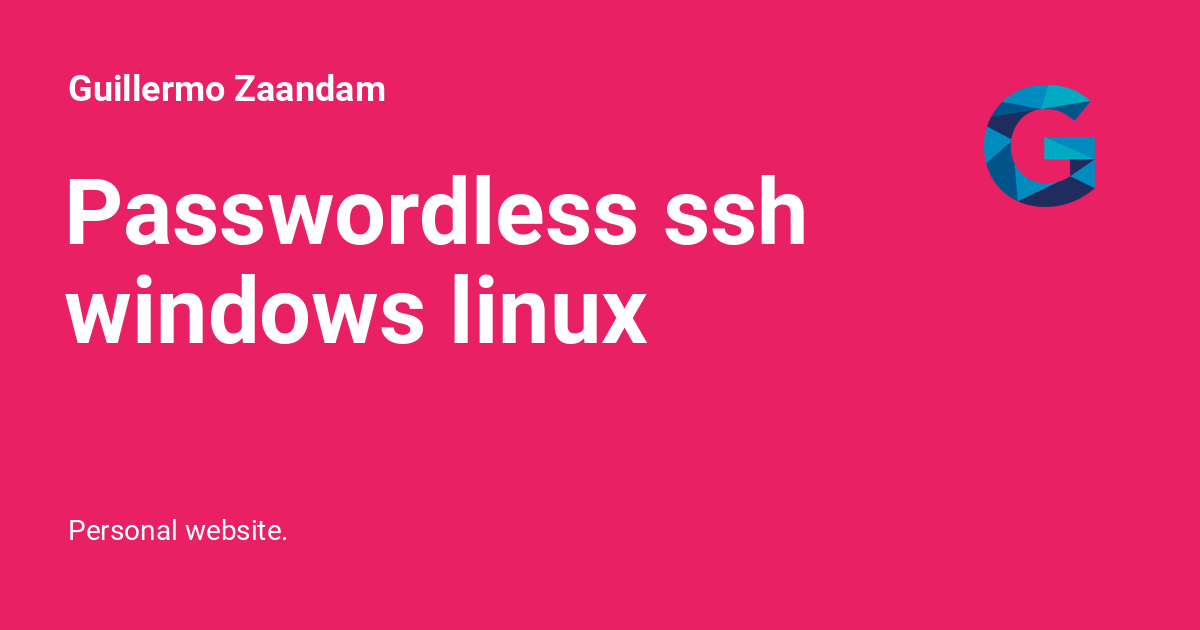
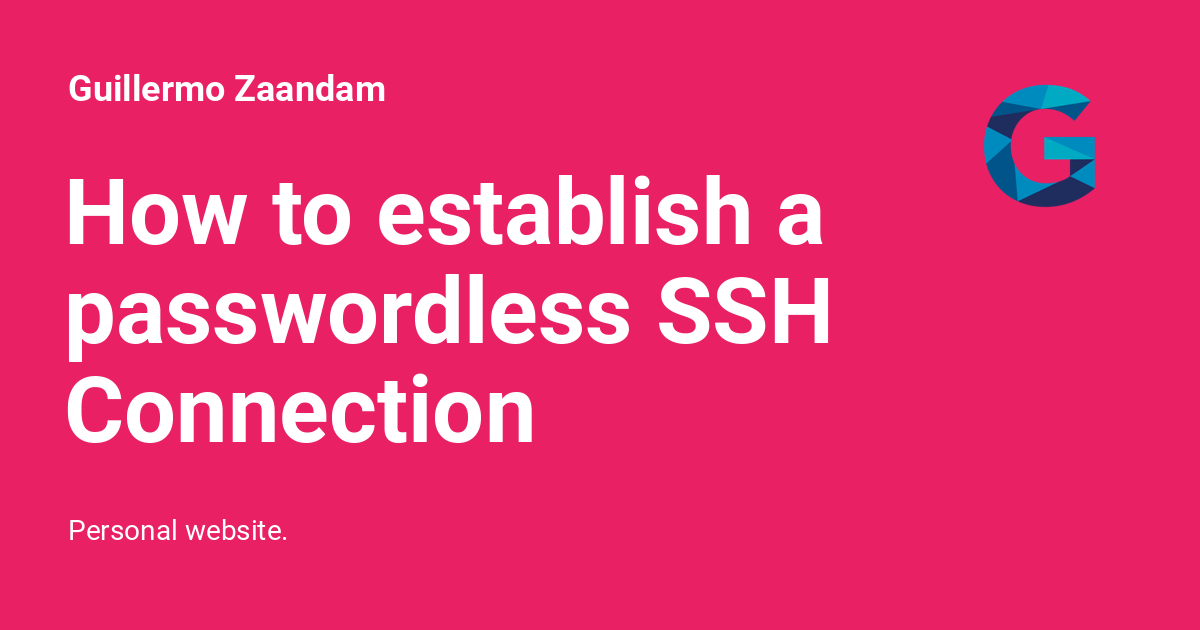
Deployed cc34bfc with MkDocs version: 1.4.2

Changed region(s): [[0.0308, 0.4222, 0.7092, 0.7238], [0.0617, 0.2714, 0.7092, 0.3921]]

diff --git a/search/search_index.js b/search/search_index.js
@@ -1,1 +1,1 @@
-var __index = {"config":{"lang":["en"],"separator":"[\\s\\-]+","pipeline":["stopWordFilter"]},"docs":[{"location":"index.html","title":"Home","text":""},{"location":"index.html#ea-traxx","title":"EA TRAXX","text":"<p>{{ blog_content }}</p>"},{"location":"blog/save-changes-after-reload.html","title":"Save CSS changes after page reload (Chrome)","text":"<p>Save your CCS changes with \"show override\" included in the Chrome DevTools.</p> <p>Open Chrome DevTools</p> <p></p> <p>Press Control+Shift+P or Command+Shift+P (Mac) to show Chrome\u2019s dev tools command menu.</p> <p></p> <p>Type \u201cshow overrides\u201d, press \"Select folder for overrides\" and allow acces to that particular folder.</p> <p></p> <p>Make some changes, reload the page and changes made earlier are still saved. click the back arrow to revert all changes.(2)</p> <p></p> <p>Changes that are made could be found in \"Sources\" tab. File could be saved locally  to your disk.</p> <p></p>"},{"location":"blog/starting-my-blog.html","title":"Starting my own blog.","text":"<p>I had to figure out how to express myself properly. Facebook, Instagram and Twitter weren't a good option due personal reasons and more.</p> <p>Facebook is too personal, Instagram is obviously for sharing photos and stories but, the worst part for me about Instagram is the part where most people are based on one personality or subject. Which is difficult for me, because there\u2019s much more than that.</p> <p>With my own blog, I have the freedom to blog about everything I want, sports, technology, cars and more. I\u2019m less dependent on Meta or Twitter.</p> <p>Starting my own blog with static pages is new to me, I heard of it before, but I had no clue how it would pan out. Yes, this blog is made with a static site generator called: Jekyll. Written in Ruby and can be used with Markdown, Liquid template engine and HTML and CSS.</p> <p>Diving right into Jekyll themes was clumsy, since I didn\u2019t know about Jekyll in general to make the most out of it. But right now, it works and is good enough to write blog posts.</p> <p>I selected the mediumish-theme-jekyll from Sal @ wowthemes.net</p> <p>Couple of fixes had to be made and things had to be figured out before I could properly launch my static page locally on my computer.</p> <p>The some what paltry instructions of any ${insert manual] is unpleasant for real beginners who want to have a nice theme. Starting with the mediumish theme:</p> <ul> <li>I had to install the bundle gems</li> <li>set bundle config to local path</li> <li>update the bundle (since it had a couple of errors.</li> <li>Changing the config file, because it didn\u2019t include the <code>vendor</code> string to exclude it from the building process.</li> </ul> <p>All the above has been solved and I made a pull request and made some changes to the file config.yml file and updated the README.md. (I think this is my second pull request?)</p> <p>Things are working \u201cproperly\u201d right now and it\u2019s time to start posting.</p>"},{"location":"blog/under-the-hood-changes.html","title":"Under the hood changes","text":"<p>Under the hood changes</p> <p>Website is going to get changed (again) for efficiency and for better clarification. The thumbnails of the posts are falling behind in terms of efficiency and clarification; I can\u2019t use .webp or .webm containers, since it doesn\u2019t work and the site is based on modified mediumish theme, with not everything available and had to be adjusted by me. You can read more about  .webp and .webm over here: WebP Compression Study  |  Google Developers What is WebP? Pros and cons of this next-gen image format - 99designs</p> <p>With the new changes I\u2019m able to support additional video players, like, Vimeo, YouTube, Twitch, Facebook video player and more. Loading the next page is going to be quicker. And more and better support for a variety of plugins and due changes in the hosting department.</p> <p>Sincerely,</p> <p>Guillermo</p>"},{"location":"blog/using-ntfs-bitlocker.html","title":"Using NTFS Bitlocker external SSD on Fedora","text":"<p>So I figured out that, <code>yarn</code> may be better than <code>npm</code> when installing packages.</p>"},{"location":"blog/using-ntfs-bitlocker.html#intro","title":"Intro","text":"<p>So I figured out that, <code>yarn</code> may be better than <code>npm</code> when installing packages. Reason why I use <code>yarn</code> instead of <code>npm</code> can be found here: Yarn: A new package manager for JavaScript</p> <p>Along side these tools, I use Node Version Manager:</p> <p>nvm is a version manager for node.js, designed to be installed per-user, and invoked per-shell. nvm works on any POSIX-compliant shell (sh, dash, ksh, zsh, bash), in particular on these platforms: unix, macOS, and windows WSL. ~ https://github.com/nvm-sh/nvm</p> <p>The reason why I use NVM:</p> <ul> <li>Use other version of <code>npm</code>.</li> <li>Using <code>yarn</code> without installing it with elevated rights</li> </ul>"},{"location":"blog/using-ntfs-bitlocker.html#using-yarn","title":"Using yarn","text":"<p>Since I couldn't use <code>yarn</code> on my system without(Fedora) using elevated rights. see error:</p> <pre><code>[guillermo@uhuh~]$ npm install --global yarn\nnpm ERR! code EACCES\nnpm ERR! syscall rename\nnpm ERR! path /usr/local/lib/node_modules/yarn\nnpm ERR! dest /usr/local/lib/node_modules/.yarn-Jrexx8nI\nnpm ERR! errno -13\nnpm ERR! Error: EACCES: permission denied, rename '/usr/local/lib/node_modules/yarn' -&gt; '/usr/local/lib/node_modules/.yarn-Jrexx8nI'\n</code></pre> <p>I had to find a solution for this problem and my resolution was to use <code>nvm</code> which obviously using a good reason to use, even without <code>yarn</code>. My source for the solution can be found here: Resolving EACCES permissions errors when installing packages globally</p>"},{"location":"blog/using-ntfs-bitlocker.html#installing-nvm-and-yarn","title":"Installing nvm and yarn","text":"<p>So Installed this script: (I don't like using scripts to install binaries, because that's the job of the package manager.)</p> <ol> <li>https://github.com/nvm-sh/nvm#install--update-script</li> <li>nvm install --lts (for installing the latest nodejs LTS version)</li> <li>npm install --global yarn</li> </ol> <p>For lazy people copy this:</p> <p><code>bash wget -qO- https://raw.githubusercontent.com/nvm-sh/nvm/v0.39.1/install.sh | bash nvm install --lts npm install --global yarn</code></p> <p>and use <code>yarn create react-app my-app</code> to use yarn as packagemanger. (Mind the space in <code>yarn create</code> part, it isn't a spelling mistake.)</p>"},{"location":"blog/using-ntfs-bitlocker.html#using-yarn-eg-create-react-app-my-app","title":"Using yarn e.g. create react-app my-app","text":"<p>Accoridng to Create a New React App</p> <p>You will need to use the command <code>npx create-react-app my-app</code> which is going to <code>npm</code> instead of <code>yarn</code> to install your packages. Which we don't want. The reason why <code>npx</code> defaults to <code>npm</code> is explained on GitHub by iansu:</p> <p>\"We've actually made some changes to this since the initial PR. Our goal is to make running create-react-app deterministic. With the old behaviour two people running npx create-react-app my-app could end up with different installs if one of them happened to have Yarn installed.</p> <p>The new behaviour in this PR looks at how create-react-app was invoked and uses the corresponding package manager. npx create-react-app my-app will use npm and yarn dlx create-react-app my-app (or yarn create react-app my-app) will use Yarn. This will also potentially allow us to add support for other package managers by following the same pattern.\"</p> <p>Source: https://github.com/facebook/create-react-app/pull/11322</p> <p>To use <code>yarn</code>, you will need to use the command <code>yarn create react-app my-app</code> (Mind the space in <code>yarn create</code> part, it isn't a spelling mistake.) Using <code>create-react-app my-app</code> will also use <code>npm</code> as package manager.</p>"}]}
+var __index = {"config":{"lang":["en"],"separator":"[\\s\\-]+","pipeline":["stopWordFilter"]},"docs":[{"location":"index.html","title":"Home","text":""},{"location":"index.html#ea-traxx","title":"EA TRAXX","text":"<p>{{ blog_content }}</p>"},{"location":"blog/passwordless_ssh_windows_linux.html","title":"How to establish a passwordless SSH Connection between Windows and Linux","text":"<p>Create a key (ed25519)</p> <p>Open your favourite terminal emulator like Windows Terminal </p> <ol> <li>Use powershell: <code>ssh-keygen -t ed25519</code></li> <li>Choose a save location with password or without your choice.</li> <li>Change your current directory to your SSH folder <code>cd .\\.ssh\\</code></li> <li>Copy your public key to your Linux server <code>scp .\\id_ed25519.pub $name@192.168.1.173:~/</code></li> </ol>"},{"location":"blog/save-changes-after-reload.html","title":"Save CSS changes after page reload (Chrome)","text":"<p>Save your CCS changes with \"show override\" included in the Chrome DevTools.</p> <p>Open Chrome DevTools</p> <p></p> <p>Press Control+Shift+P or Command+Shift+P (Mac) to show Chrome\u2019s dev tools command menu.</p> <p></p> <p>Type \u201cshow overrides\u201d, press \"Select folder for overrides\" and allow acces to that particular folder.</p> <p></p> <p>Make some changes, reload the page and changes made earlier are still saved. click the back arrow to revert all changes.(2)</p> <p></p> <p>Changes that are made could be found in \"Sources\" tab. File could be saved locally  to your disk.</p> <p></p>"},{"location":"blog/starting-my-blog.html","title":"Starting my own blog.","text":"<p>I had to figure out how to express myself properly. Facebook, Instagram and Twitter weren't a good option due personal reasons and more.</p> <p>Facebook is too personal, Instagram is obviously for sharing photos and stories but, the worst part for me about Instagram is the part where most people are based on one personality or subject. Which is difficult for me, because there\u2019s much more than that.</p> <p>With my own blog, I have the freedom to blog about everything I want, sports, technology, cars and more. I\u2019m less dependent on Meta or Twitter.</p> <p>Starting my own blog with static pages is new to me, I heard of it before, but I had no clue how it would pan out. Yes, this blog is made with a static site generator called: Jekyll. Written in Ruby and can be used with Markdown, Liquid template engine and HTML and CSS.</p> <p>Diving right into Jekyll themes was clumsy, since I didn\u2019t know about Jekyll in general to make the most out of it. But right now, it works and is good enough to write blog posts.</p> <p>I selected the mediumish-theme-jekyll from Sal @ wowthemes.net</p> <p>Couple of fixes had to be made and things had to be figured out before I could properly launch my static page locally on my computer.</p> <p>The some what paltry instructions of any ${insert manual] is unpleasant for real beginners who want to have a nice theme. Starting with the mediumish theme:</p> <ul> <li>I had to install the bundle gems</li> <li>set bundle config to local path</li> <li>update the bundle (since it had a couple of errors.</li> <li>Changing the config file, because it didn\u2019t include the <code>vendor</code> string to exclude it from the building process.</li> </ul> <p>All the above has been solved and I made a pull request and made some changes to the file config.yml file and updated the README.md. (I think this is my second pull request?)</p> <p>Things are working \u201cproperly\u201d right now and it\u2019s time to start posting.</p>"},{"location":"blog/under-the-hood-changes.html","title":"Under the hood changes","text":"<p>Under the hood changes</p> <p>Website is going to get changed (again) for efficiency and for better clarification. The thumbnails of the posts are falling behind in terms of efficiency and clarification; I can\u2019t use .webp or .webm containers, since it doesn\u2019t work and the site is based on modified mediumish theme, with not everything available and had to be adjusted by me. You can read more about  .webp and .webm over here: WebP Compression Study  |  Google Developers What is WebP? Pros and cons of this next-gen image format - 99designs</p> <p>With the new changes I\u2019m able to support additional video players, like, Vimeo, YouTube, Twitch, Facebook video player and more. Loading the next page is going to be quicker. And more and better support for a variety of plugins and due changes in the hosting department.</p> <p>Sincerely,</p> <p>Guillermo</p>"},{"location":"blog/using-ntfs-bitlocker.html","title":"Using NTFS Bitlocker external SSD on Fedora","text":"<p>So I figured out that, <code>yarn</code> may be better than <code>npm</code> when installing packages.</p>"},{"location":"blog/using-ntfs-bitlocker.html#intro","title":"Intro","text":"<p>So I figured out that, <code>yarn</code> may be better than <code>npm</code> when installing packages. Reason why I use <code>yarn</code> instead of <code>npm</code> can be found here: Yarn: A new package manager for JavaScript</p> <p>Along side these tools, I use Node Version Manager:</p> <p>nvm is a version manager for node.js, designed to be installed per-user, and invoked per-shell. nvm works on any POSIX-compliant shell (sh, dash, ksh, zsh, bash), in particular on these platforms: unix, macOS, and windows WSL. ~ https://github.com/nvm-sh/nvm</p> <p>The reason why I use NVM:</p> <ul> <li>Use other version of <code>npm</code>.</li> <li>Using <code>yarn</code> without installing it with elevated rights</li> </ul>"},{"location":"blog/using-ntfs-bitlocker.html#using-yarn","title":"Using yarn","text":"<p>Since I couldn't use <code>yarn</code> on my system without(Fedora) using elevated rights. see error:</p> <pre><code>[guillermo@uhuh~]$ npm install --global yarn\nnpm ERR! code EACCES\nnpm ERR! syscall rename\nnpm ERR! path /usr/local/lib/node_modules/yarn\nnpm ERR! dest /usr/local/lib/node_modules/.yarn-Jrexx8nI\nnpm ERR! errno -13\nnpm ERR! Error: EACCES: permission denied, rename '/usr/local/lib/node_modules/yarn' -&gt; '/usr/local/lib/node_modules/.yarn-Jrexx8nI'\n</code></pre> <p>I had to find a solution for this problem and my resolution was to use <code>nvm</code> which obviously using a good reason to use, even without <code>yarn</code>. My source for the solution can be found here: Resolving EACCES permissions errors when installing packages globally</p>"},{"location":"blog/using-ntfs-bitlocker.html#installing-nvm-and-yarn","title":"Installing nvm and yarn","text":"<p>So Installed this script: (I don't like using scripts to install binaries, because that's the job of the package manager.)</p> <ol> <li>https://github.com/nvm-sh/nvm#install--update-script</li> <li>nvm install --lts (for installing the latest nodejs LTS version)</li> <li>npm install --global yarn</li> </ol> <p>For lazy people copy this:</p> <p><code>bash wget -qO- https://raw.githubusercontent.com/nvm-sh/nvm/v0.39.1/install.sh | bash nvm install --lts npm install --global yarn</code></p> <p>and use <code>yarn create react-app my-app</code> to use yarn as packagemanger. (Mind the space in <code>yarn create</code> part, it isn't a spelling mistake.)</p>"},{"location":"blog/using-ntfs-bitlocker.html#using-yarn-eg-create-react-app-my-app","title":"Using yarn e.g. create react-app my-app","text":"<p>Accoridng to Create a New React App</p> <p>You will need to use the command <code>npx create-react-app my-app</code> which is going to <code>npm</code> instead of <code>yarn</code> to install your packages. Which we don't want. The reason why <code>npx</code> defaults to <code>npm</code> is explained on GitHub by iansu:</p> <p>\"We've actually made some changes to this since the initial PR. Our goal is to make running create-react-app deterministic. With the old behaviour two people running npx create-react-app my-app could end up with different installs if one of them happened to have Yarn installed.</p> <p>The new behaviour in this PR looks at how create-react-app was invoked and uses the corresponding package manager. npx create-react-app my-app will use npm and yarn dlx create-react-app my-app (or yarn create react-app my-app) will use Yarn. This will also potentially allow us to add support for other package managers by following the same pattern.\"</p> <p>Source: https://github.com/facebook/create-react-app/pull/11322</p> <p>To use <code>yarn</code>, you will need to use the command <code>yarn create react-app my-app</code> (Mind the space in <code>yarn create</code> part, it isn't a spelling mistake.) Using <code>create-react-app my-app</code> will also use <code>npm</code> as package manager.</p>"}]}

diff --git a/blog/passwordless_ssh_windows_linux.html b/blog/passwordless_ssh_windows_linux.html
@@ -23,7 +23,7 @@
     
     
       
-        <title>Passwordless ssh windows linux - Guillermo Zaandam</title>
+        <title>How to establish a passwordless SSH Connection between Windows and Linux - Guillermo Zaandam</title>
       
     
     
@@ -69,7 +69,7 @@
       
         <meta  property="og:type"  content="website" >
       
-        <meta  property="og:title"  content="Passwordless ssh windows linux - Guillermo Zaandam" >
+        <meta  property="og:title"  content="How to establish a passwordless SSH Connection between Windows and Linux - Guillermo Zaandam" >
       
         <meta  property="og:description"  content="Personal website." >
       
@@ -85,7 +85,7 @@
       
         <meta  name="twitter:card"  content="summary_large_image" >
       
-        <meta  name="twitter:title"  content="Passwordless ssh windows linux - Guillermo Zaandam" >
+        <meta  name="twitter:title"  content="How to establish a passwordless SSH Connection between Windows and Linux - Guillermo Zaandam" >
       
         <meta  name="twitter:description"  content="Personal website." >
       
@@ -113,6 +113,11 @@
     <input class="md-toggle" data-md-toggle="search" type="checkbox" id="__search" autocomplete="off">
     <label class="md-overlay" for="__drawer"></label>
     <div data-md-component="skip">
+      
+        
+        <a href="#how-to-establish-a-passwordless-ssh-connection-between-windows-and-linux" class="md-skip">
+          Skip to content
+        </a>
       
     </div>
     <div data-md-component="announce">
@@ -142,7 +147,7 @@
         <div class="md-header__topic" data-md-component="header-topic">
           <span class="md-ellipsis">
             
-              Passwordless ssh windows linux
+              How to establish a passwordless SSH Connection between Windows and Linux
             
           </span>
         </div>
@@ -308,9 +313,11 @@
       <input class="md-nav__toggle md-toggle" type="checkbox" id="__toc">
       
       
+        
+      
       
       <a href="passwordless_ssh_windows_linux.html" class="md-nav__link md-nav__link--active">
-        Passwordless ssh windows linux
+        How to establish a passwordless SSH Connection between Windows and Linux
       </a>
       
     </li>
@@ -397,6 +404,8 @@
   
   
   
+    
+  
   
 </nav>
                   </div>
@@ -411,9 +420,16 @@
                   
 
 
-  <h1>Passwordless ssh windows linux</h1>
-
-
+<h1 id="how-to-establish-a-passwordless-ssh-connection-between-windows-and-linux">How to establish a passwordless SSH Connection between Windows and Linux</h1>
+<p>Create a key (ed25519)</p>
+<p>Open your favourite terminal emulator like Windows Terminal
+<img alt="whatever" src="../assets/blogassets/creating_ssh_key.gif" /></p>
+<ol>
+<li>Use powershell: <code>ssh-keygen -t ed25519</code></li>
+<li>Choose a save location with password or without your choice.</li>
+<li>Change your current directory to your SSH folder <code>cd .\.ssh\</code></li>
+<li>Copy your public key to your Linux server <code>scp .\id_ed25519.pub $name@192.168.1.173:~/</code></li>
+</ol>
 
 
   

diff --git a/index.html b/index.html
@@ -341,7 +341,7 @@
   
     <li class="md-nav__item">
       <a href="blog/passwordless_ssh_windows_linux.html" class="md-nav__link">
-        Passwordless ssh windows linux
+        How to establish a passwordless SSH Connection between Windows and Linux
       </a>
     </li>
   
@@ -576,7 +576,7 @@
                 
                 <div class="blog-post">
     <h3 class="blog-post-title">
-        <a class="link" href="https://andereguillermozaandam.be/blog/passwordless_ssh_windows_linux.html">Passwordless ssh windows linux</a>
+        <a class="link" href="https://andereguillermozaandam.be/blog/passwordless_ssh_windows_linux.html">How to establish a passwordless SSH Connection between Windows and Linux</a>
     </h3>
     
     <p class="blog-post-description">

diff --git a/404.html b/404.html
@@ -269,7 +269,7 @@
   
     <li class="md-nav__item">
       <a href="/blog/passwordless_ssh_windows_linux.html" class="md-nav__link">
-        Passwordless ssh windows linux
+        How to establish a passwordless SSH Connection between Windows and Linux
       </a>
     </li>
   

diff --git a/blog/save-changes-after-reload.html b/blog/save-changes-after-reload.html
@@ -305,7 +305,7 @@
   
     <li class="md-nav__item">
       <a href="passwordless_ssh_windows_linux.html" class="md-nav__link">
-        Passwordless ssh windows linux
+        How to establish a passwordless SSH Connection between Windows and Linux
       </a>
     </li>
   

diff --git a/blog/starting-my-blog.html b/blog/starting-my-blog.html
@@ -310,7 +310,7 @@
   
     <li class="md-nav__item">
       <a href="passwordless_ssh_windows_linux.html" class="md-nav__link">
-        Passwordless ssh windows linux
+        How to establish a passwordless SSH Connection between Windows and Linux
       </a>
     </li>
   

diff --git a/blog/under-the-hood-changes.html b/blog/under-the-hood-changes.html
@@ -305,7 +305,7 @@
   
     <li class="md-nav__item">
       <a href="passwordless_ssh_windows_linux.html" class="md-nav__link">
-        Passwordless ssh windows linux
+        How to establish a passwordless SSH Connection between Windows and Linux
       </a>
     </li>
   

diff --git a/blog/using-ntfs-bitlocker.html b/blog/using-ntfs-bitlocker.html
@@ -308,7 +308,7 @@
   
     <li class="md-nav__item">
       <a href="passwordless_ssh_windows_linux.html" class="md-nav__link">
-        Passwordless ssh windows linux
+        How to establish a passwordless SSH Connection between Windows and Linux
       </a>
     </li>
   
